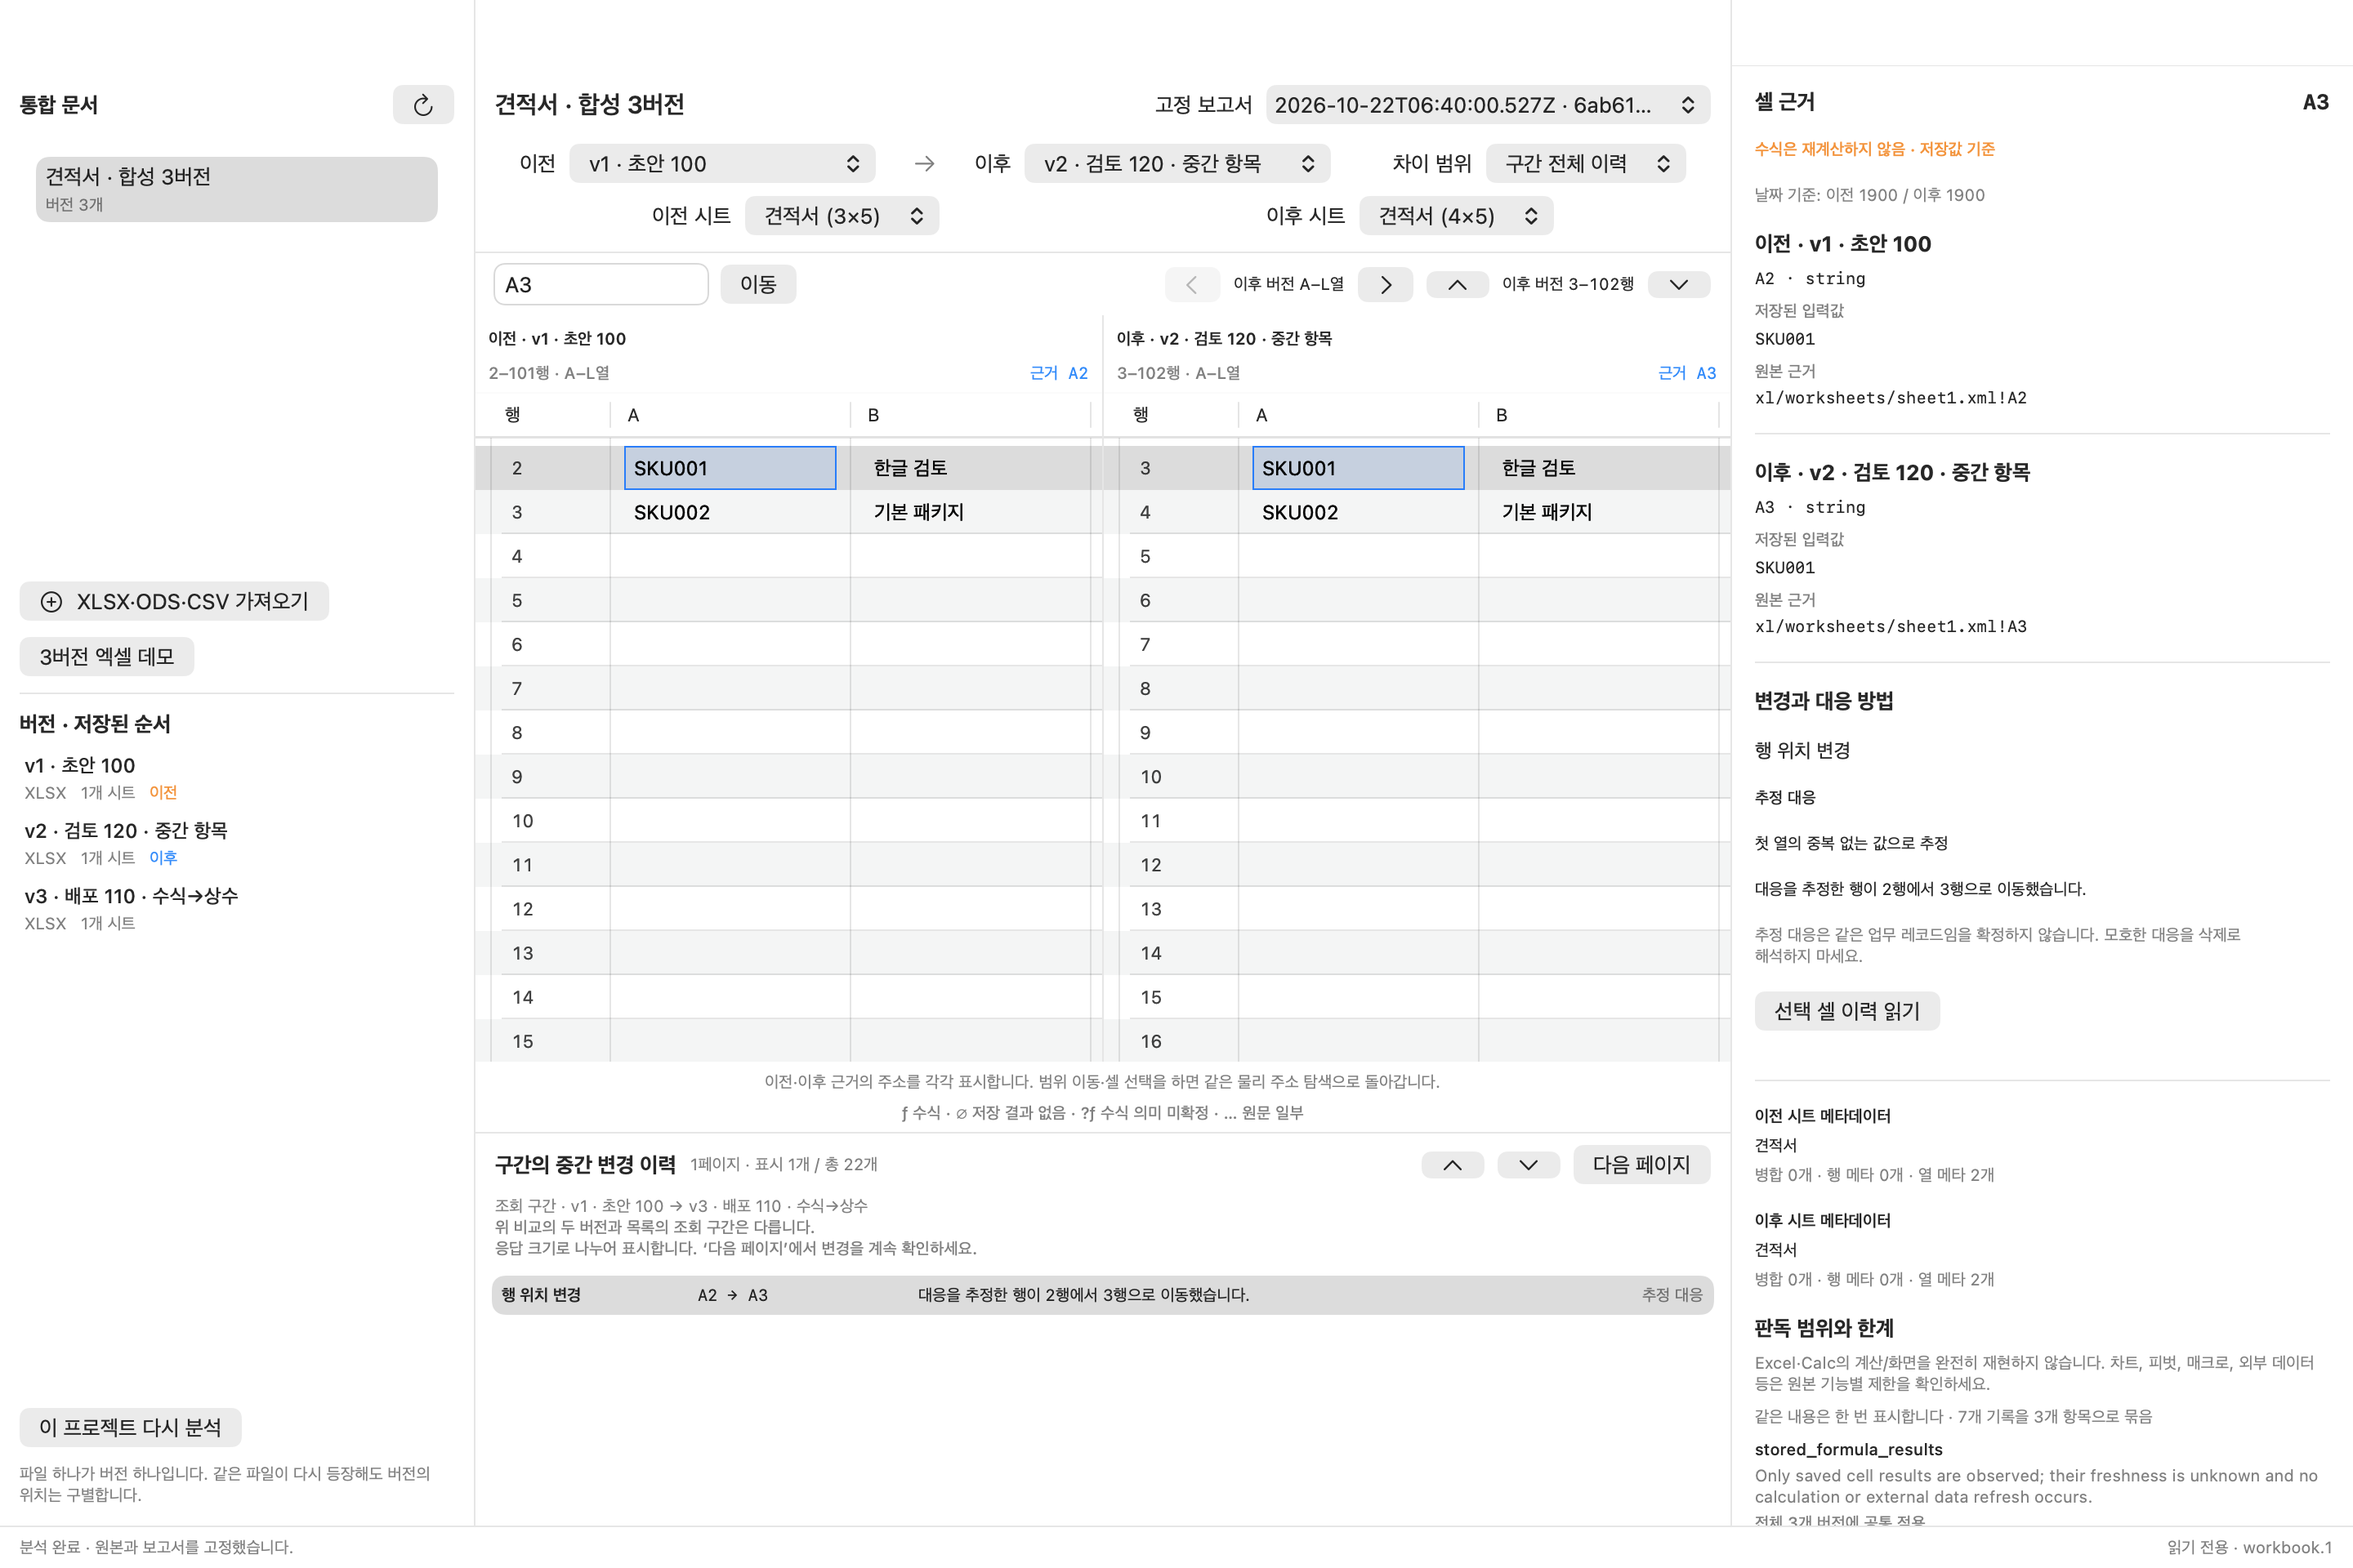
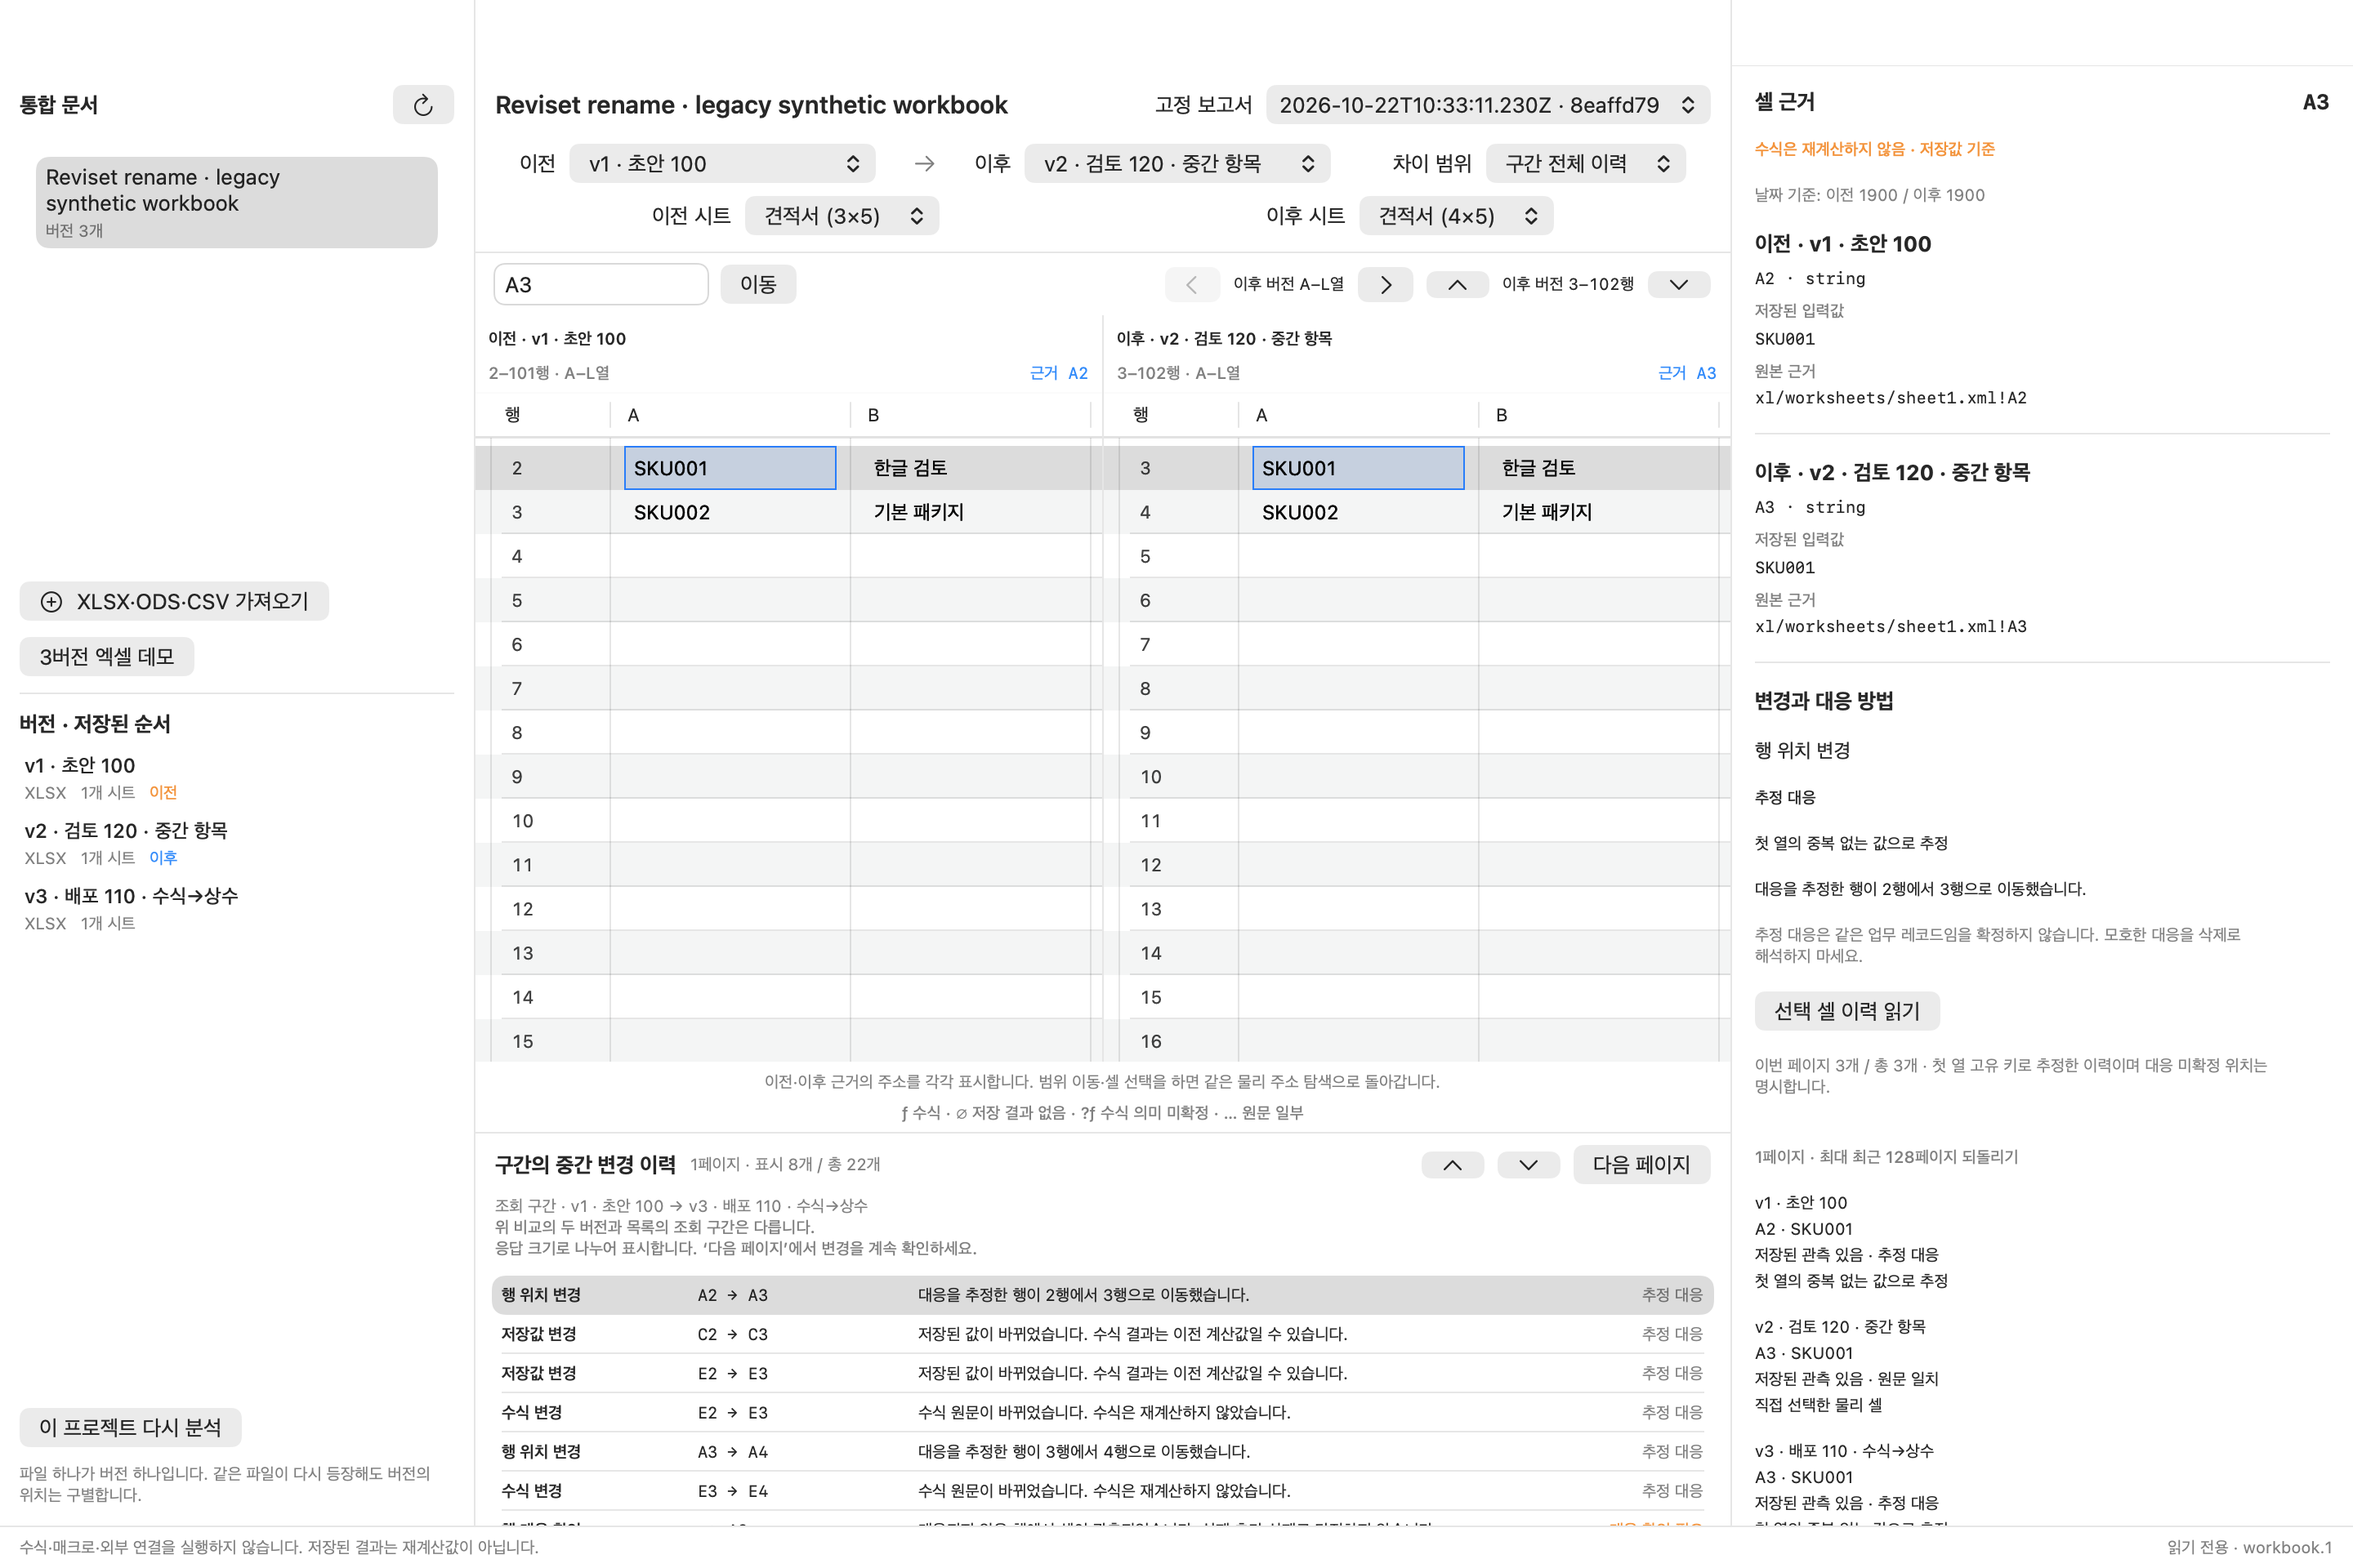
Document Reviset compatibility validation and refresh native screenshots

diff --git a/PROGRESS.md b/PROGRESS.md
@@ -1081,3 +1081,10 @@ and complete original-base reviews follow;no currentpackage/perfection claim.
 - 최종88/88 PASS19.918초, strictSwift3.900초/tsc0.330초/macbuild31.440초.219개 입력 파일 해시를 clean runtime에 결합. 실제 데모·1803UTF16 원문2조각/양쪽 독립 일치·복귀, ZIP공백 이동20검사/12MCP도구15호출/DB불변/기존PPTX·PDF·LibreOffice PASS.
 - 독립 두 역할의 최종 전체5파일 diff는 코드COMMENT(도구 미노출)/구조CLEAR/SOURCE_READY, actionable0. Claude5d전체/ba8delta/최종실제2이미지APPROVE. Grok최종 범위와 판정은 [후속 검증](docs/WORKBOOK-RECOVERY-2026-10-22.md)에 결합한다.
 - 원래42+직전ZIP3/validation3 총44보존 경로 일치, 중간4·5ZIP보존. 공통7backend/helper바이트는076과 동일. 전체341회귀/40만셀분석은 과거고정소스 실측으로 유지한다. 보편OCR·PowerPoint strict/수식재계산/고급Excel/다른Mac·공증/OS입력·VoiceOver는 미해결·범위밖이다.
+
+## 2026-10-22 Reviset / 리비셋 리네이밍
+
+- 사용자 확정 이름 Reviset을 앱 창·Finder 표시·실행 파일·아이콘 파일명·내보내기 폴더·CLI·패키지·MCP 서버/새 설정 키·영문/한국어 README에 적용했다. 기본 산출물은 `release/Reviset.app`; 새 `REVISET_*` 빌드 입력과 기존 `DOCVER_*` 별칭을 지원한다.
+- 저장 경로/DB/번들 식별자/설정 키/도움 실행 파일/`docver://` 인용과 schema·engine·고정 보고서 바이트는 유지한다. 같은 보관소 잠금도 유지한다. [호환성 계약](docs/RENAMING.md).
+- Clean runtime `1b2f98b4f727972b8261516ec82064908600455d`: TypeScript·집중43검사·실제 네이티브 빌드·엄격 서명 PASS. 보존한 Docver-Sheets가 만든 합성5버전 문서/3버전 통합 문서 고정 보고서를 새 앱으로 열고 ID/본문 hash/원본 byte를 보존했다. 새 동봉 MCP 이름·설정·범위 거절·기존 인용·DB byte 불변 확인. HANDOFF/PLAN 및 보존한 두 기존 앱 실행 파일 hash 일치.
+- 실제 새 앱의 문서/시트 캡처2장과 provenance를 갱신했다. 새 OCR 성능·전체 회귀·ZIP 이동·공증/다른 Mac·VoiceOver 자격을 주장하지 않는다. 로컬 증거 `.omx/artifacts/rename-reviset-20261022/`는 GitHub 소스에서 제외한다.

diff --git a/docs/QUALITY.md b/docs/QUALITY.md
@@ -1,4 +1,12 @@
-# 현재 검증 · 2026-10-22 스프레드시트
+# 현재 검증 · 2026-10-22 Reviset 리네이밍
+
+현재 소스 빌드 앱은 `release/Reviset.app`, clean runtime source는 `1b2f98b4f727972b8261516ec82064908600455d`다. 표시명·실행 파일·CLI·MCP 이름을 Reviset으로 바꿨으며 [호환성 식별자](RENAMING.md)는 유지한다. TypeScript와 관련43개 검사, 네이티브 빌드·엄격 서명 검사가 통과했다.
+
+보존한 Docver-Sheets의 동봉 합성 자료로 만든5버전 문서/3버전 통합 문서 보고서를 새 Reviset 앱에서 다시 열었다. 고정 보고서 ID·본문 hash와 원본 byte가 유지되고, 새 동봉 MCP의 서버명/설정 키·프로젝트 범위 거절·DB byte 불변·기존 `docver://` 인용 조회를 확인했다. 새 실제 캡처2장을 README에 반영했다. 상세 로컬 증거는 `.omx/artifacts/rename-reviset-20261022/native-qualification.json`이며 GitHub에는 원시 검증 폴더를 포함하지 않는다.
+
+이 검증은 리네이밍·기존 보고서 재열기 범위다. 새 대규모 OCR·전체 회귀·이동 ZIP·다른 Mac·공증·OS입력/VoiceOver 검증으로 확대하지 않는다. 이전 앱·ZIP은 당시 이름과 증거로 보존한다.
+
+## 리네이밍 이전 검증 · 2026-10-22 스프레드시트
 
 현재 앱은 `release/Docver-Sheets.app`, ZIP은 `release/Docver-0.5.0-workbook6-arm64.zip`, clean runtime source는 `ba8eae815950f92511b7ebb81335bc1f02c6e79f`다. [후속 변경·검토·한계](WORKBOOK-RECOVERY-2026-10-22.md), [이동 ZIP 검증](../release/validation-workbook6.json), [실행 결합 JSON](../.omx/artifacts/workbook-improve-20261022/composite-qualification.json)을 따른다. 이후 문서 커밋과 앱의 실행 소스를 구분한다.
 

diff --git a/docs/images/README.md b/docs/images/README.md
@@ -1,6 +1,6 @@
 # README screenshots
 
-These unedited screenshots show the actual SwiftUI/AppKit/PDFKit application at runtime source `ba8eae815950f92511b7ebb81335bc1f02c6e79f`. Both use bundled synthetic demos, not user documents.
+These unedited screenshots show the actual SwiftUI/AppKit/PDFKit application at runtime source `1b2f98b4f727972b8261516ec82064908600455d`. They show Reviset reopening fixed reports created from the preserved Docver build’s bundled synthetic demos. No user documents were used. The legacy report IDs, bodies, and original bytes were verified unchanged; the document capture also shows the new Reviset footer.
 
 - `document-comparison.png`: a five-version synthetic demo showing the 100→120 numeric change and its source evidence. The visible left pane is a LibreOffice-converted PPTX (page2), and the right pane is an original PDF (page3).
 - `workbook-comparison.png`: the three-version workbook demo, showing inferred A2→A3 row movement, exact physical addresses and the stored input string SKU001 on both sides. It does not illustrate a formula or a newly calculated result.

diff --git a/docs/RENAMING.md b/docs/RENAMING.md
@@ -58,3 +58,13 @@ Earlier validation records and preserved Docver app bundles keep their original
 names, source SHAs, and screenshots. They describe those exact builds. Renaming
 does not extend their results to a new build, change the project license, or
 qualify a public installer. `HANDOFF.md` and `PLAN.md` remain original records.
+
+The Reviset build at `1b2f98b` passed TypeScript checks, 43 focused tests, the
+native build, and strict signature verification. The running app reopened
+synthetic document and workbook reports created by the preserved Docver build;
+report IDs/bodies and original bytes stayed unchanged. Packaged MCP announced
+`reviset`, enforced project scope, read existing `docver://` citations, and left
+database bytes unchanged. The current [README screenshots](images/README.md)
+were refreshed from this running build; historical captures remain in Git
+history and the original validation records. This is scoped rename validation,
+not a new full regression, OCR benchmark, relocated-ZIP, or notarization result.
